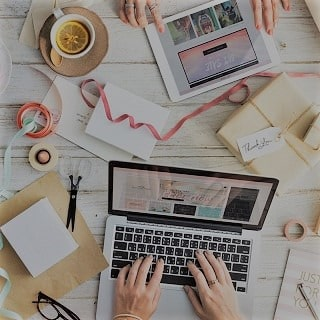
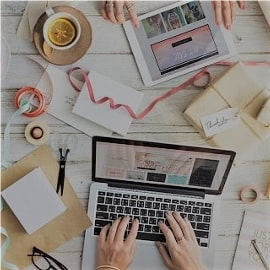
Modification taille en px des images

diff --git a/index.html b/index.html
@@ -168,7 +168,7 @@
 				</div>
 				<div class="row tight-width-whitespace portfolio-row">
 					<div class="col-sm-6">
-						<a href="#" data-lightbox="img/1.jpg" data-gallery-id="gallery-1" aria-label="Refonte d'un site web pour un journal local" data-caption="Refonte d'un site web pour un journal local" data-frame="snapshot-lb"><img src="img/1.jpg" alt="Refonte d'un site web pour un journal local" class="img-responsive portfolio-thumb" /></a>
+						<a href="#" data-lightbox="img/1.jpg" data-gallery-id="gallery-1" id="flexbox-img" aria-label="Refonte d'un site web pour un journal local" data-caption="Refonte d'un site web pour un journal local" data-frame="snapshot-lb"><img src="img/1.jpg" alt="Refonte d'un site web pour un journal local" class="img-responsive portfolio-thumb" /></a>
 						<h3 class="mg-md text-center">
 							Refonte d'un site web pour un journal local
 						</h3>
@@ -177,7 +177,7 @@
 						</p>
 					</div>
 					<div class="col-sm-6">
-						<a href="#" data-lightbox="img/2.jpg" data-gallery-id="gallery-1" aria-label="Création d'un site web pour photographes" data-caption="Création d'un site web pour photographes" data-frame="snapshot-lb"><img src="img/2.jpg" class="img-responsive portfolio-thumb" alt="Création d'un site web pour photographes" /></a>
+						<a href="#" data-lightbox="img/2.jpg" data-gallery-id="gallery-1" id="flexbox-img" aria-label="Création d'un site web pour photographes" data-caption="Création d'un site web pour photographes" data-frame="snapshot-lb"><img src="img/2.jpg" class="img-responsive portfolio-thumb" alt="Création d'un site web pour photographes" /></a>
 						<h3 class="mg-md text-center">
 							Création d'un site web pour photographes
 						</h3>
@@ -188,7 +188,7 @@
 				</div>
 				<div class="row tight-width-whitespace portfolio-row">
 					<div class="col-sm-6">
-						<a href="#" data-lightbox="img/3.jpg" data-gallery-id="gallery-1" aria-label="Création d'un site internet pour un voyageur" data-caption="Création d'un site internet pour un voyageur" data-frame="snapshot-lb"><img src="img/3.jpg" class="img-responsive portfolio-thumb" alt="Création d'un site internet pour un voyageur"/></a>
+						<a href="#" data-lightbox="img/3.jpg" data-gallery-id="gallery-1" id="flexbox-img" aria-label="Création d'un site internet pour un voyageur" data-caption="Création d'un site internet pour un voyageur" data-frame="snapshot-lb"><img src="img/3.jpg" class="img-responsive portfolio-thumb" alt="Création d'un site internet pour un voyageur"/></a>
 						<h3 class="mg-md text-center">
 							Création d'un site internet pour un voyageur
 						</h3>
@@ -197,7 +197,7 @@
 						</p>
 					</div>
 					<div class="col-sm-6">
-						<a href="#" data-lightbox="img/4.jpg" data-gallery-id="gallery-1" aria-label="Conception d'un site pour une agence de mariage" data-caption="Conception d'un site pour une agence de mariage" data-frame="snapshot-lb"><img src="img/4.jpg" class="img-responsive portfolio-thumb" alt="Conception d'un site pour une agence de mariage" /></a>
+						<a href="#" data-lightbox="img/4.jpg" data-gallery-id="gallery-1" id="flexbox-img" aria-label="Conception d'un site pour une agence de mariage" data-caption="Conception d'un site pour une agence de mariage" data-frame="snapshot-lb"><img src="img/4.jpg" class="img-responsive portfolio-thumb" alt="Conception d'un site pour une agence de mariage" /></a>
 						<h3 class="mg-md text-center">
 							Conception d'un site pour une agence de mariage
 						</h3>

diff --git a/style.css b/style.css
@@ -644,7 +644,7 @@ a[data-lightbox]:hover img {
 }
 
 .snapshot-lb .modal-body {
-    padding-bottom: 45px;
+    padding-bottom: 65px;
 }
 
 .snapshot-lb .lightbox-caption {
@@ -1100,4 +1100,9 @@ h4 {
 
 .auteur-citation {
     font-size: 16px;
+}
+
+#flexbox-img {
+    display: flex;
+    justify-content: center;
 }
